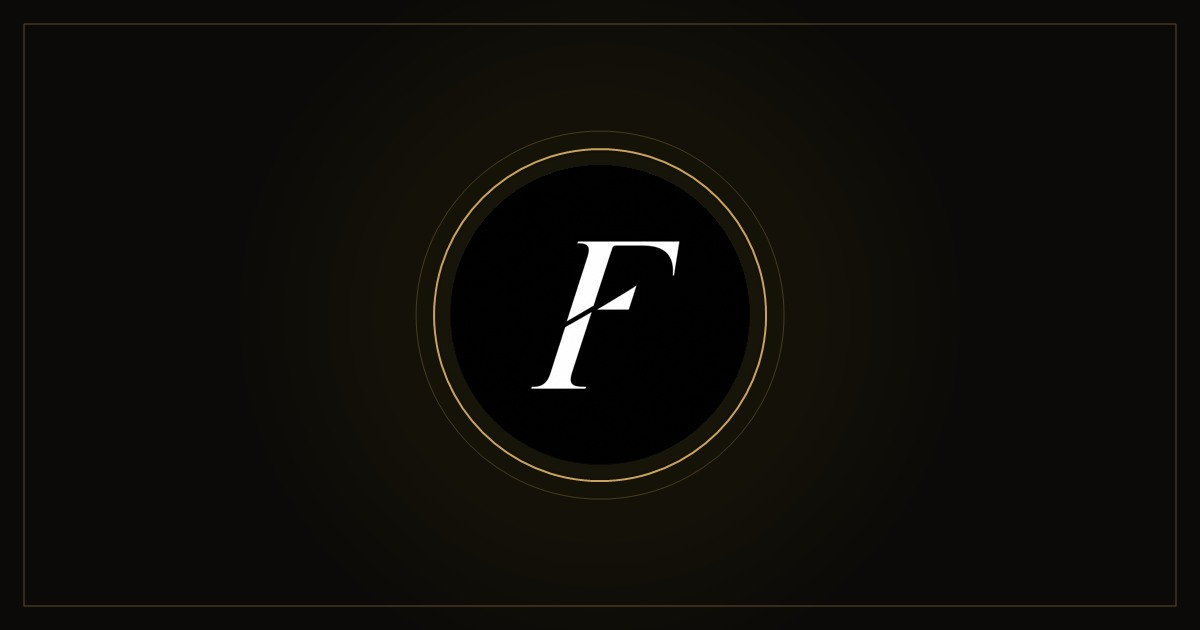
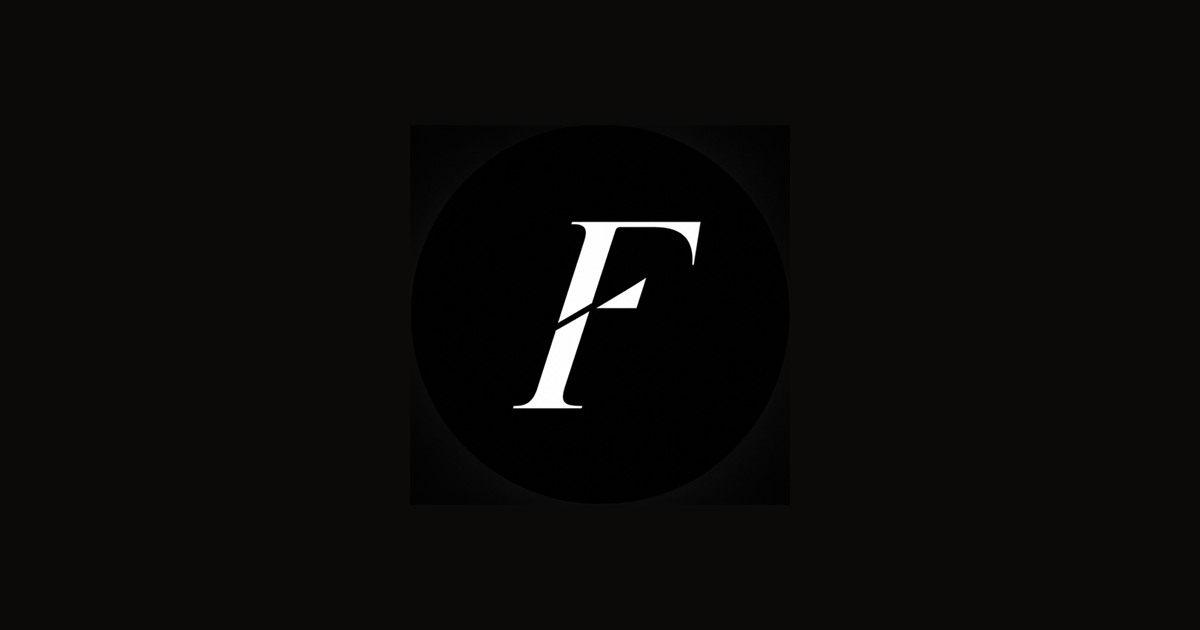
Quita los adornos de la imagen de compartir
La tarjeta que se ve al compartir el link ahora es solo el logo de la
F sobre el fondo de la marca, sin aros dorados, halo ni marco. Tambien
lleva version en la URL para que la vista previa de WhatsApp no se
quede con la imagen anterior.

diff --git a/index.html b/index.html
@@ -14,7 +14,7 @@
 <meta property="og:url" content="https://fayraparfumsv.netlify.app/" />
 <meta property="og:title" content="Fayra Parfums · Perfumes originales en El Salvador" />
 <meta property="og:description" content="Perfumes originales importados de Emiratos Árabes Unidos. Envío incluido en el precio. Pide fácil por WhatsApp." />
-<meta property="og:image" content="https://fayraparfumsv.netlify.app/assets/img/social.jpg" />
+<meta property="og:image" content="https://fayraparfumsv.netlify.app/assets/img/social.jpg?v=2" />
 <meta property="og:image:width" content="1200" />
 <meta property="og:image:height" content="630" />
 <meta property="og:image:alt" content="Fayra Parfums — Odyssey Aqua de Armaf, 100 ml EDP, $64.99 con envío incluido" />
@@ -22,7 +22,7 @@
 <meta name="twitter:card" content="summary_large_image" />
 <meta name="twitter:title" content="Fayra Parfums · Perfumes originales en El Salvador" />
 <meta name="twitter:description" content="Perfumes originales importados. Envío incluido en el precio." />
-<meta name="twitter:image" content="https://fayraparfumsv.netlify.app/assets/img/social.jpg" />
+<meta name="twitter:image" content="https://fayraparfumsv.netlify.app/assets/img/social.jpg?v=2" />
 <meta name="theme-color" content="#0c0a08" />
 
 <link rel="preconnect" href="https://fonts.googleapis.com" />

diff --git a/catalogo.html b/catalogo.html
@@ -14,7 +14,7 @@
 <meta property="og:url" content="https://fayraparfumsv.netlify.app/catalogo.html" />
 <meta property="og:title" content="Catálogo · Fayra Parfums" />
 <meta property="og:description" content="Perfumes originales importados de Emiratos Árabes Unidos. Envío incluido en el precio." />
-<meta property="og:image" content="https://fayraparfumsv.netlify.app/assets/img/social.jpg" />
+<meta property="og:image" content="https://fayraparfumsv.netlify.app/assets/img/social.jpg?v=2" />
 <meta property="og:image:width" content="1200" />
 <meta property="og:image:height" content="630" />
 <meta property="og:image:alt" content="Fayra Parfums — Odyssey Aqua de Armaf, 100 ml EDP, $64.99 con envío incluido" />
